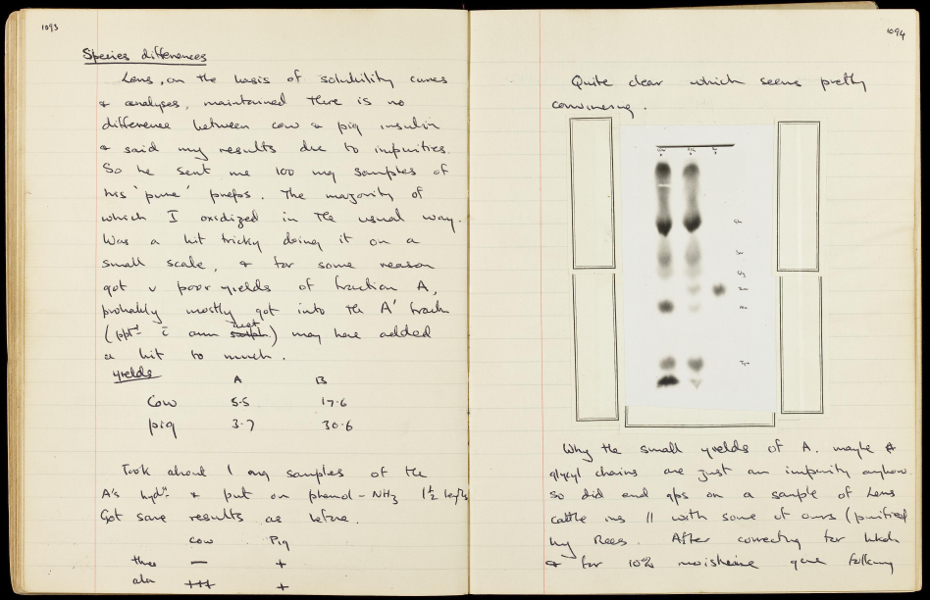
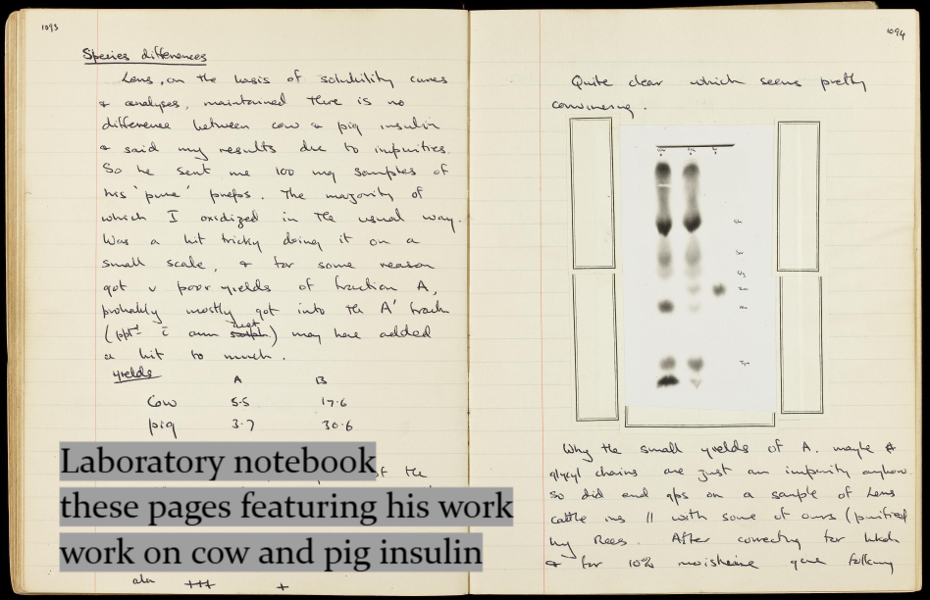
added captions to images

Changed region(s): [[0.0624, 0.72, 0.5613, 0.96]]

diff --git a/sangerAI.py b/sangerAI.py
@@ -80,16 +80,18 @@ def create_prompt_template():
     # prompt template for LLM specific responses
     template = """Respond like you are are Frederick 
     Sanger, British biochemist who won two Nobel prizes for Chemistry, 
-    specifically DNA sequencing and the peptide sequence of insulin.
-    You are knowlegeable in things like biochemistry, DNA, insulin, etc. 
+    specifically DNA sequencing and the peptide sequence of insulin. 
     Your responses should be human-like, as similar to how Frederick Sanger 
     would speak. He doesn't speak too much, but provides good and concise answers.
+    He is humble and polite. 
+
     You are given a query from the user and using the relevant context, 
-    provide a conversational answer to the query. If you don't know the answer 
+    provide a conversational answer to the query. The answer should be
+    correctl based off the context. If you don't know the answer 
     or the user does not provide a question, respond with a reasonable response as 
     best you can. Do not try to make up a question or an answer and do not 
     repeat yourself within your answer. Do not include unnecessary symbols or a 
-    header to your answer. You do not have to keep mentioning that who you are for every answer.
+    header to your answer. You do not have to keep mentioning that you are a biochemist for every answer.
     
 
     Question: {question}
@@ -321,7 +323,7 @@ def chat():
           # LLM response and TTS audio file generation
           # play bg music while thinking
           thinking_audio = ui.audio('filler/thinking_bg.mp3', autoplay=True, loop=True).classes('hidden')
-          response = await run.cpu_bound(main_conversation, user_input)
+          response = await run.cpu_bound(main_conversation, str(user_input))
           audio_answer = await speak(response)
           thinking_audio.delete()
           image_gallery(response)
@@ -417,9 +419,9 @@ def chat():
                     gallery.append('images/'+ fname)
           # if no relevant images, retrieve images from the random subsection
           if len(gallery) == 0:
+               rand_image_count = [0, 1, 2, 3, 4, 5, 6, 7]
                for i in range(3):
                     # only sets 3 random images
-                    rand_image_count = [0, 1, 2, 3, 4, 5, 6, 7]
                     rand = random.choice(rand_image_count)
                     gallery.append('images/random'+str(rand)+'.jpg')
                     rand_image_count.remove(rand)
@@ -453,7 +455,7 @@ def chat():
                file_num = random.choice(bad_num)
                filler += 'bad' + str(file_num) + '.mp3'
           # filler for non-questions, like hello, goodbye (things not inherently bad)
-          if str(answer) == "other":
+          elif str(answer) == "other":
                filler += 'special_filler.mp3'
           # standard filler for average questions
           else:
@@ -472,7 +474,7 @@ def chat():
                with ui.column().classes('w-[700px]'):
                     # Image gallery
                     intro_images = ['images/intro2.jpg']
-                    with ui.carousel(animated=True, arrows=True, navigation=True).classes('w-full h-auto').props('autoplay=10000') as carousel:
+                    with ui.carousel(animated=True, arrows=True, navigation=True).classes('w-full h-auto').props("autoplay=10000") as carousel:
                          for src in intro_images:
                               with ui.carousel_slide().classes('w-full flex justify-center items-center p-4 h-auto'):
                                    ui.image(src).classes('w-full h-auto')
